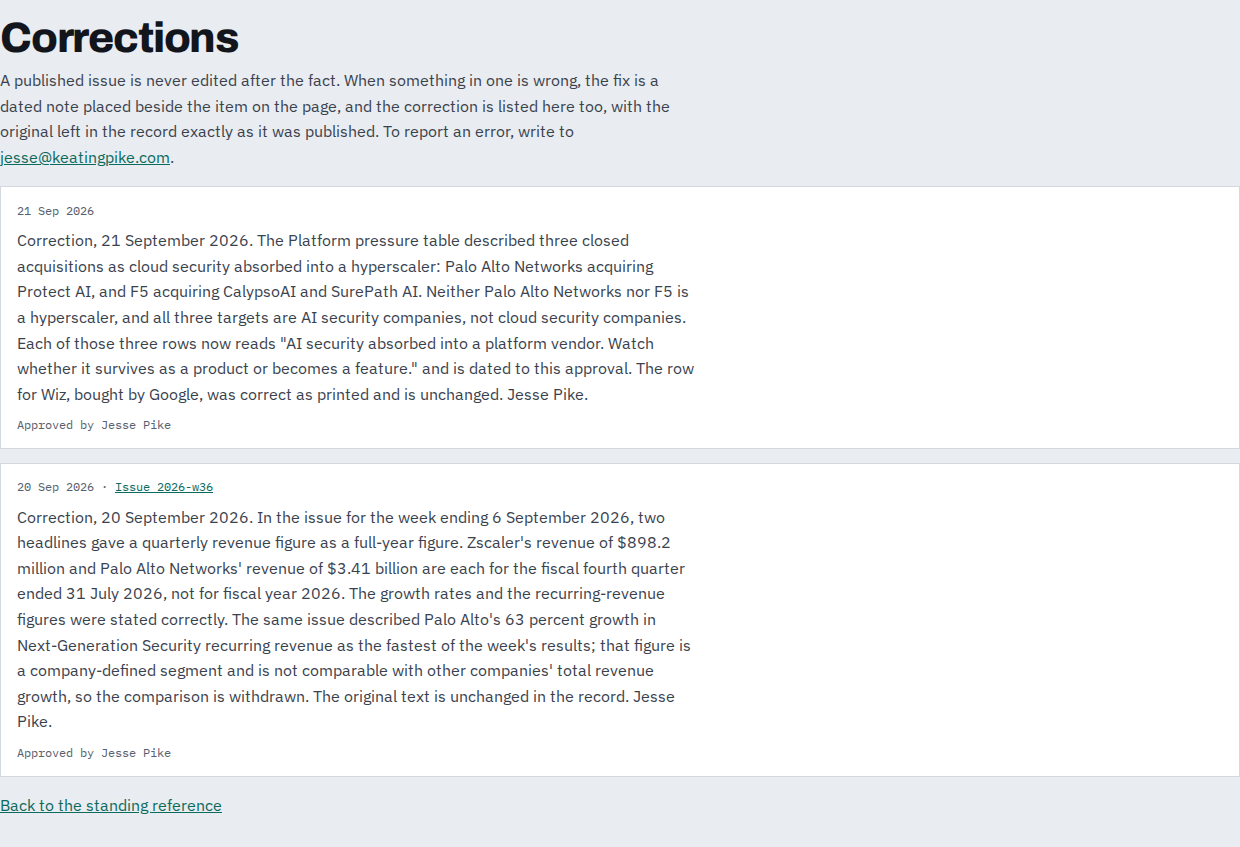
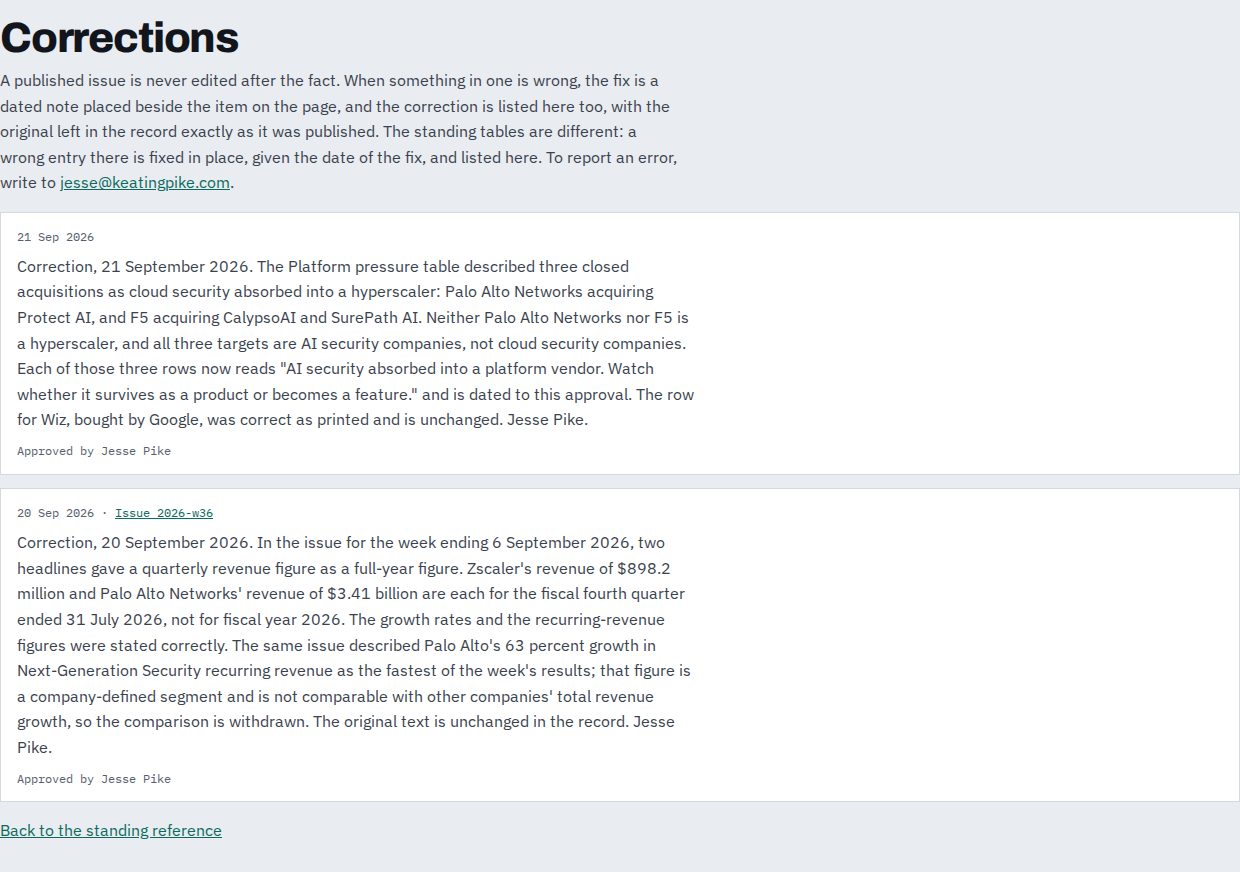
fix(corrections): explain the standing-table correction path in the intro (SEC-054)
The /corrections/ intro only described how a published issue is corrected
(never edited, dated note beside the item). Add one sentence noting that a
standing table, like Platform pressure, is corrected in place instead, dated
to the fix, and still listed here.

Claude-Session: https://claude.ai/code/session_01AdcpLzcT3PoSBWQ7nuRLAT

Changed region(s): [[0.0, 0.0614, 0.5823, 0.5218], [0.0, 0.5525, 0.5516, 0.9823], [0.0, 0.0307, 0.2145, 0.0614]]

diff --git a/web/src/components/Corrections.tsx b/web/src/components/Corrections.tsx
@@ -18,7 +18,9 @@ export function Corrections() {
       <p className="corrections-page__lede">
         A published issue is never edited after the fact. When something in one is wrong, the fix is
         a dated note placed beside the item on the page, and the correction is listed here too, with
-        the original left in the record exactly as it was published. To report an error, write to{' '}
+        the original left in the record exactly as it was published. The standing tables are
+        different: a wrong entry there is fixed in place, given the date of the fix, and listed
+        here. To report an error, write to{' '}
         <a href={mailto('Security Market Pulse — correction or question')}>{CONTACT_EMAIL}</a>.
       </p>
       {ordered.length === 0 ? (
